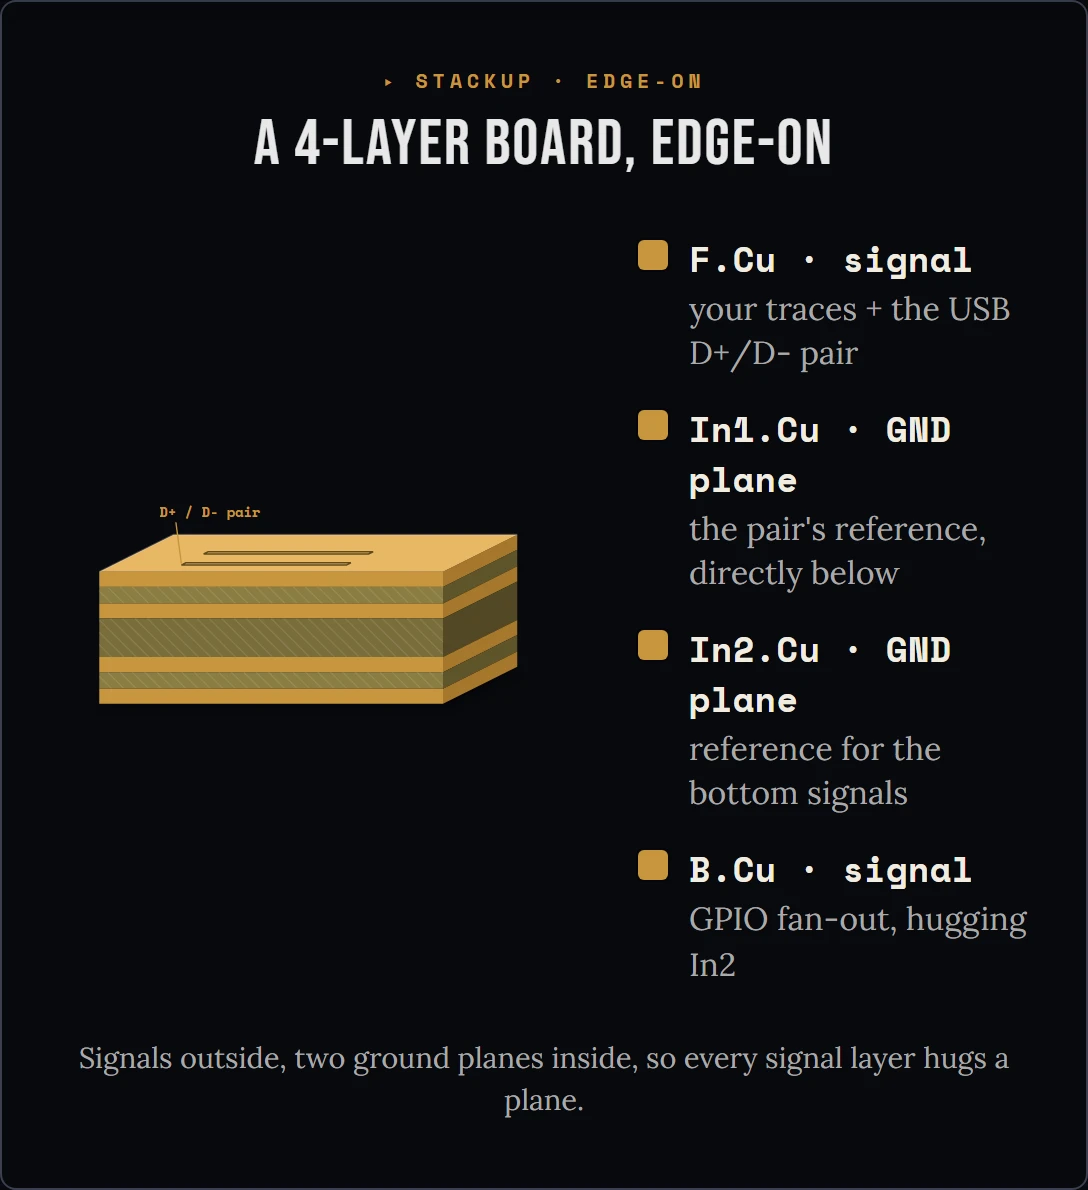
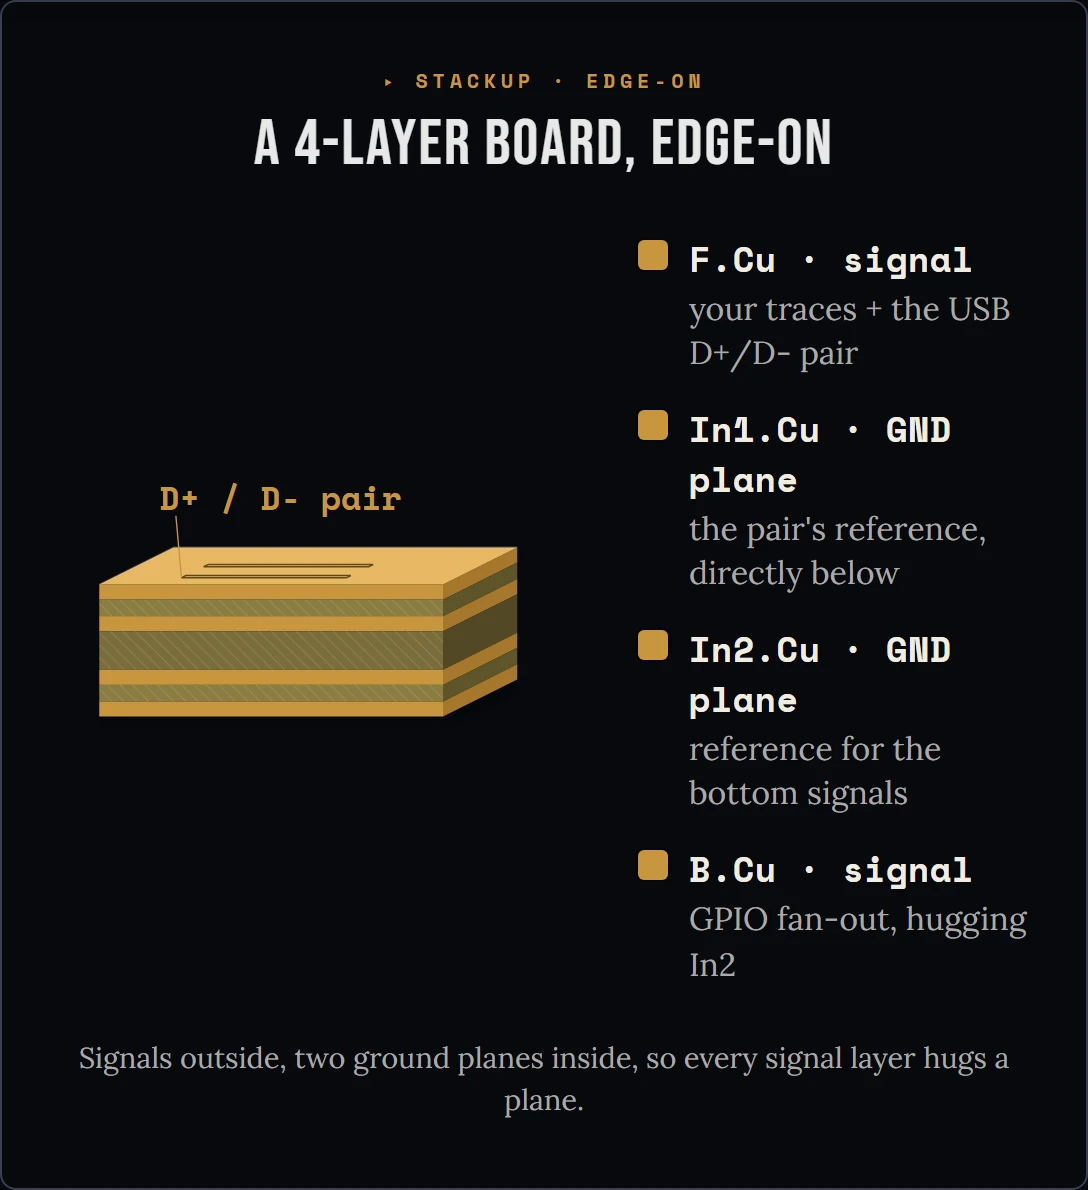
fix(diagram): enlarge + lift the 4-layer D+/D- label
The D+/D- pair label on the four-layer cross-section read too small against the block. Bump 10px -> 24px, add viewBox top headroom (0 -18 380 190), and raise the label + lengthen its leader so it sits clear of the board. Re-export both rasters + refresh the manifest hash.

Changed region(s): [[0.0938, 0.4042, 0.5, 0.6218]]

diff --git a/src/components/guide/diagrams/FourLayerCrossSection.tsx b/src/components/guide/diagrams/FourLayerCrossSection.tsx
@@ -59,8 +59,8 @@ function pairMarkup() {
   const tx = x0 + 0.18 * DX;
   return (
     trace(0.18) + trace(0.48) +
-    `<line x1="${tx - 4}" y1="22" x2="${tx}" y2="${Y0 - 0.18 * DY - 1}" class="x4-leader"/>` +
-    `<text x="${tx - 16}" y="18" class="x4-pairlbl">D+ / D- pair</text>`
+    `<line x1="${tx - 4}" y1="8" x2="${tx}" y2="${Y0 - 0.18 * DY - 1}" class="x4-leader"/>` +
+    `<text x="${tx - 16}" y="4" class="x4-pairlbl">D+ / D- pair</text>`
   );
 }
 
@@ -98,7 +98,7 @@ export function FourLayerCrossSection({ caption }: { caption?: string }) {
     >
       <style>{CSS}</style>
       <div className="x4-wrap">
-        <svg className="x4-svg" viewBox="0 0 380 172" preserveAspectRatio="xMidYMid meet" aria-hidden="true">
+        <svg className="x4-svg" viewBox="0 -18 380 190" preserveAspectRatio="xMidYMid meet" aria-hidden="true">
           <defs>
             <filter id="x4Blur" x="-30%" y="-120%" width="160%" height="360%">
               <feGaussianBlur stdDeviation="3" />
@@ -134,7 +134,7 @@ const CSS = `
 .x4-wrap{display:flex;align-items:center;justify-content:center;gap:clamp(1rem,4vw,1.8rem);}
 @container (max-width:520px){.x4-wrap{flex-direction:column;gap:1rem;}}
 .x4-svg{display:block;width:100%;height:auto;overflow:visible;flex:1 1 56%;min-width:0;max-width:380px;}
-.x4-pairlbl{fill:var(--color-command-gold,#c8963e);font-family:var(--font-mono,"Space Mono",monospace);font-size:10px;font-weight:700;}
+.x4-pairlbl{fill:var(--color-command-gold,#c8963e);font-family:var(--font-mono,"Space Mono",monospace);font-size:24px;font-weight:700;}
 .x4-leader{stroke:var(--color-command-gold,#c8963e);stroke-width:1;}
 
 .x4-key{margin:0;padding:0;list-style:none;flex:1 1 42%;min-width:0;display:flex;flex-direction:column;gap:clamp(.6rem,2.2vw,.9rem);text-align:left;}
